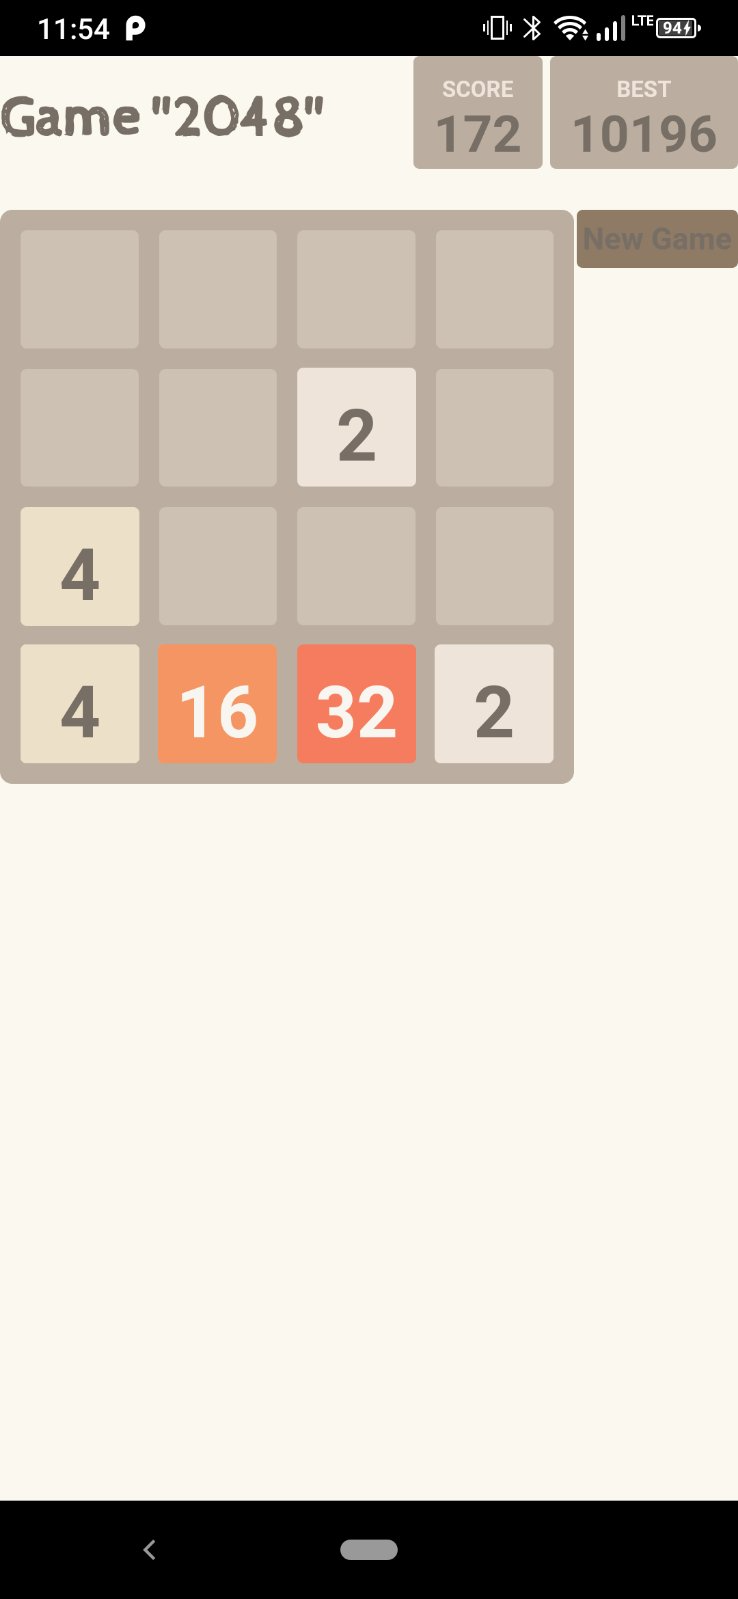
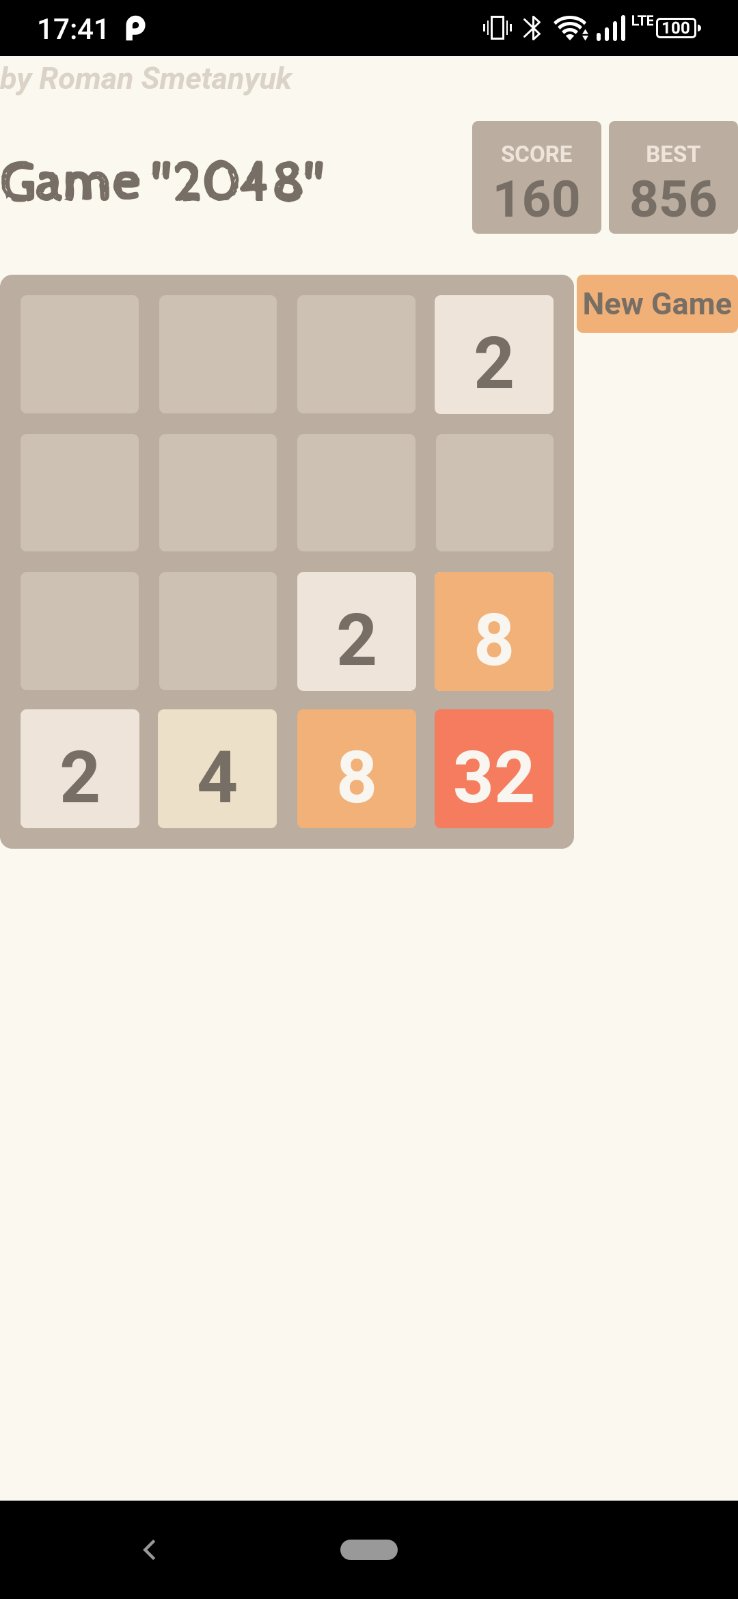
some style improvements

Changed region(s): [[0.0, 0.0, 1.0, 0.3064], [0.0, 0.3064, 0.7791, 0.5516]]

diff --git a/www/2048style.css b/www/2048style.css
@@ -70,6 +70,7 @@ h1.title a {
 
 .author {
   font-style: italic;
+  color: #cdc1b4ad;
 }
 
 .scores-container {
@@ -667,7 +668,7 @@ hr {
 }
 
 .restart-button {
-  background: #8f7a66;
+  background: #f2b079;
   border-radius: 3px;
   padding: 5px;
   text-decoration: none;
@@ -1343,112 +1344,108 @@ footer {
   display: none;
 }
 
-@media all and (orientation: portrait) {
-
-  @media screen and (max-width: 860px) {
-    .side-column {
-      width: 130px;
-    }
-
-    .side-ad {
-      display: none;
-    }
-
-    .solitaire-ad img {
-      width: 100px;
-    }
-
-    .side-column-left {
-      background-position: -60px 0px;
-    }
+@media screen and (max-width: 860px) {
+  .side-column {
+    width: 130px;
   }
 
-  @media screen and (max-width: 760px) {
-    .side-column {
-      display: none;
-    }
-
-    .mobile-top {
-      display: block;
-    }
-
-    body {
-      padding: 0px;
-    }
+  .side-ad {
+    display: none;
   }
 
-  @media screen and (max-width: 480px) {
-
-    html,
-    body {
-      font-size: 15px;
-    }
-
-    body {
-      margin: 0 0 20px 0;
-    }
-
-    #flappy-thirds-wrapper canvas {
-      width: 100%;
-    }
-
-    .restart-button {
-      padding: 3px;
-    }
-
-    .game-container {
-      margin-top: 10px;
-    }
-
-    .score-container:after,
-    .best-container:after {
-      font-size: 11px;
-    }
-
-    .approved img {
-      width: 280px;
-    }
-
-    .play-now a {
-      padding: 8px;
-    }
-
-    h1.title-internal {
-      font-size: 24px;
-    }
-
-    .share-img {
-      display: none;
-    }
-
-    .share-img-small {
-      display: none;
-    }
-
-    .tips-and-tricks li a {
-      width: 280px;
-    }
-
-    .tips-and-tricks li a.even {
-      margin-right: 0px;
-    }
-
-    .top-link-ads-wrapper {
-      display: none;
-    }
-
-    .fb-line {
-      float: left;
-      width: 100%;
-      font-size: 15px;
-    }
-
-    .ads-bellow-game {
-      margin-top: 30px;
-      text-align: center;
-      float: none;
-      width: 100%;
-    }
+  .solitaire-ad img {
+    width: 100px;
   }
 
+  .side-column-left {
+    background-position: -60px 0px;
+  }
+}
+
+@media screen and (max-width: 760px) {
+  .side-column {
+    display: none;
+  }
+
+  .mobile-top {
+    display: block;
+  }
+
+  body {
+    padding: 0px;
+  }
+}
+
+@media screen and (max-width: 480px) {
+
+  html,
+  body {
+    font-size: 15px;
+  }
+
+  body {
+    margin: 0 0 20px 0;
+  }
+
+  #flappy-thirds-wrapper canvas {
+    width: 100%;
+  }
+
+  .restart-button {
+    padding: 3px;
+  }
+
+  .game-container {
+    margin-top: 10px;
+  }
+
+  .score-container:after,
+  .best-container:after {
+    font-size: 11px;
+  }
+
+  .approved img {
+    width: 280px;
+  }
+
+  .play-now a {
+    padding: 8px;
+  }
+
+  h1.title-internal {
+    font-size: 24px;
+  }
+
+  .share-img {
+    display: none;
+  }
+
+  .share-img-small {
+    display: none;
+  }
+
+  .tips-and-tricks li a {
+    width: 280px;
+  }
+
+  .tips-and-tricks li a.even {
+    margin-right: 0px;
+  }
+
+  .top-link-ads-wrapper {
+    display: none;
+  }
+
+  .fb-line {
+    float: left;
+    width: 100%;
+    font-size: 15px;
+  }
+
+  .ads-bellow-game {
+    margin-top: 30px;
+    text-align: center;
+    float: none;
+    width: 100%;
+  }
 }

diff --git a/README.md b/README.md
@@ -2,6 +2,8 @@ This is my first hybrid mobile application built by PHONEGAP/CORDOVA with HTML, 
 
 It is the popular game 2048, which HTML, CSS, and JavaScript code I took from here https://code.sololearn.com/WYWMDCa664ex#html
 
+Try web version of this app here: https://rsmetanyuk.github.io/Cordova-Android-JS-Game2048
+
 ![Mobile game 2048](2048.png)
 
 HOW TO START THIS APP ON PHONE
